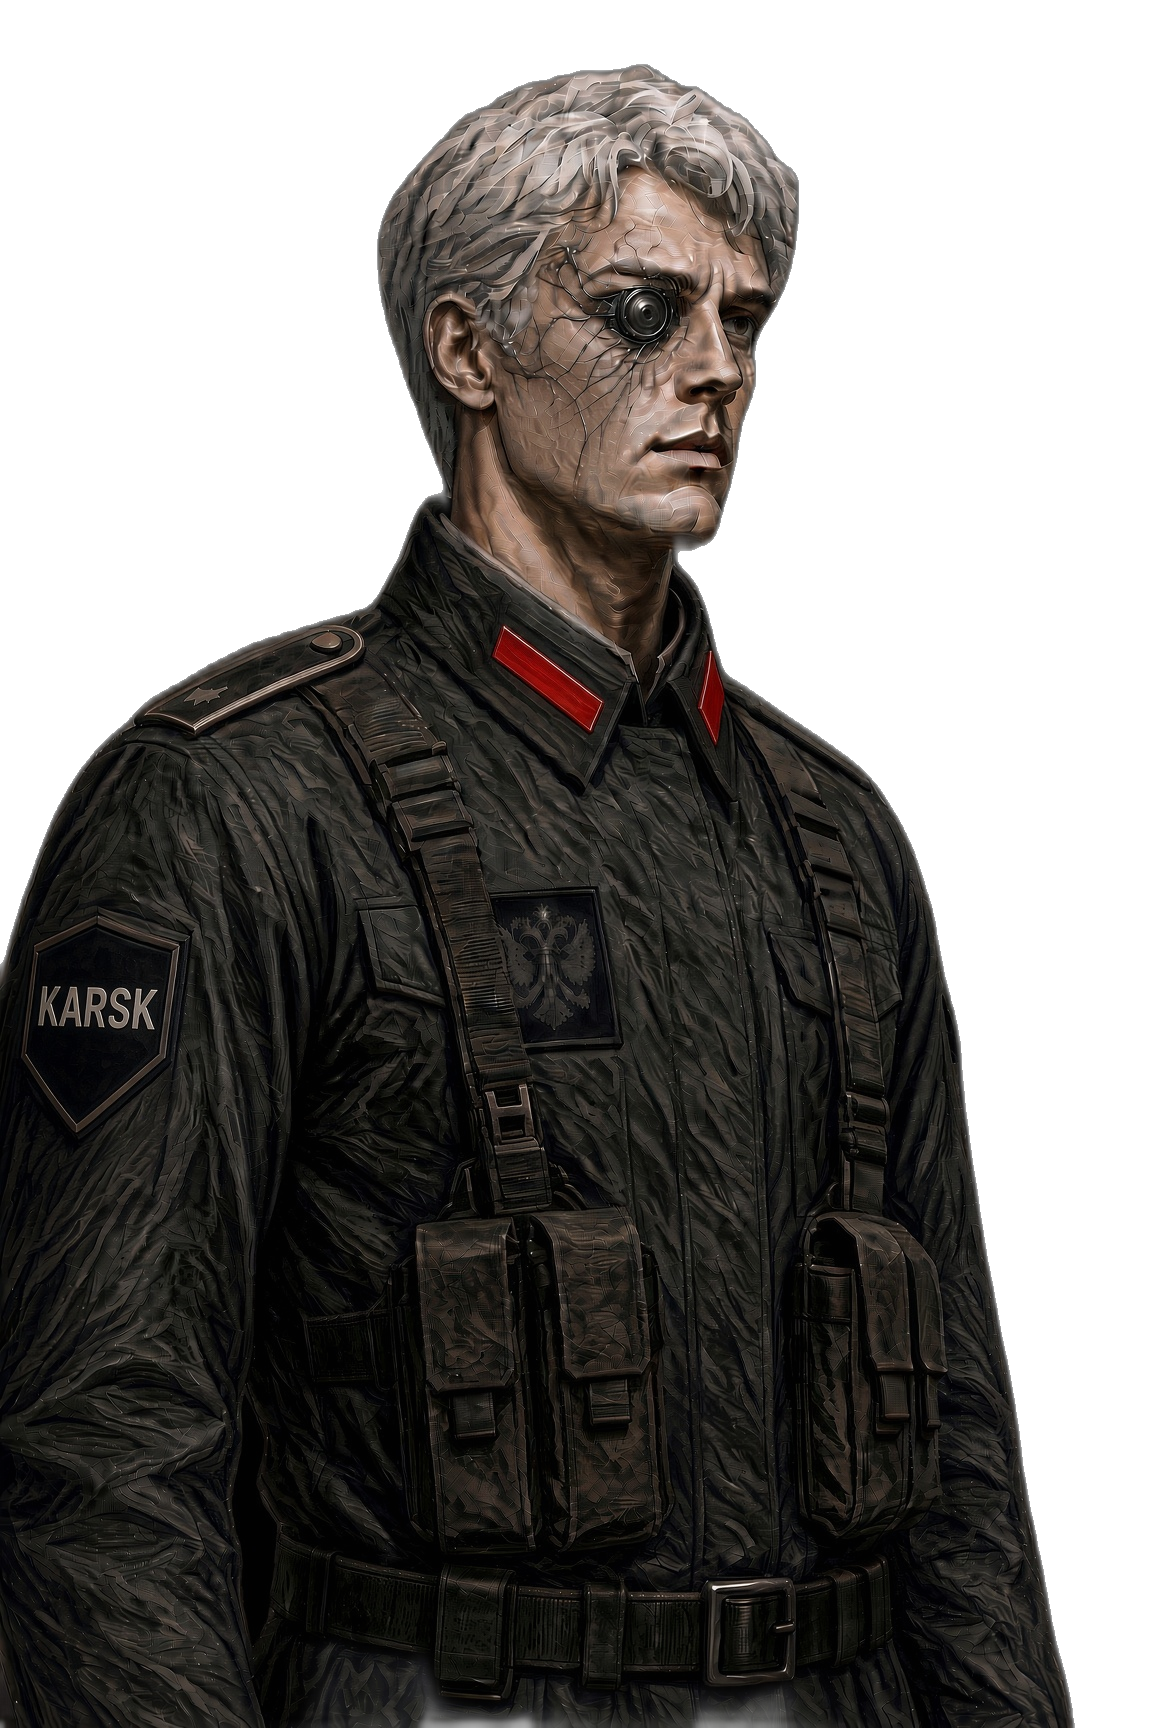
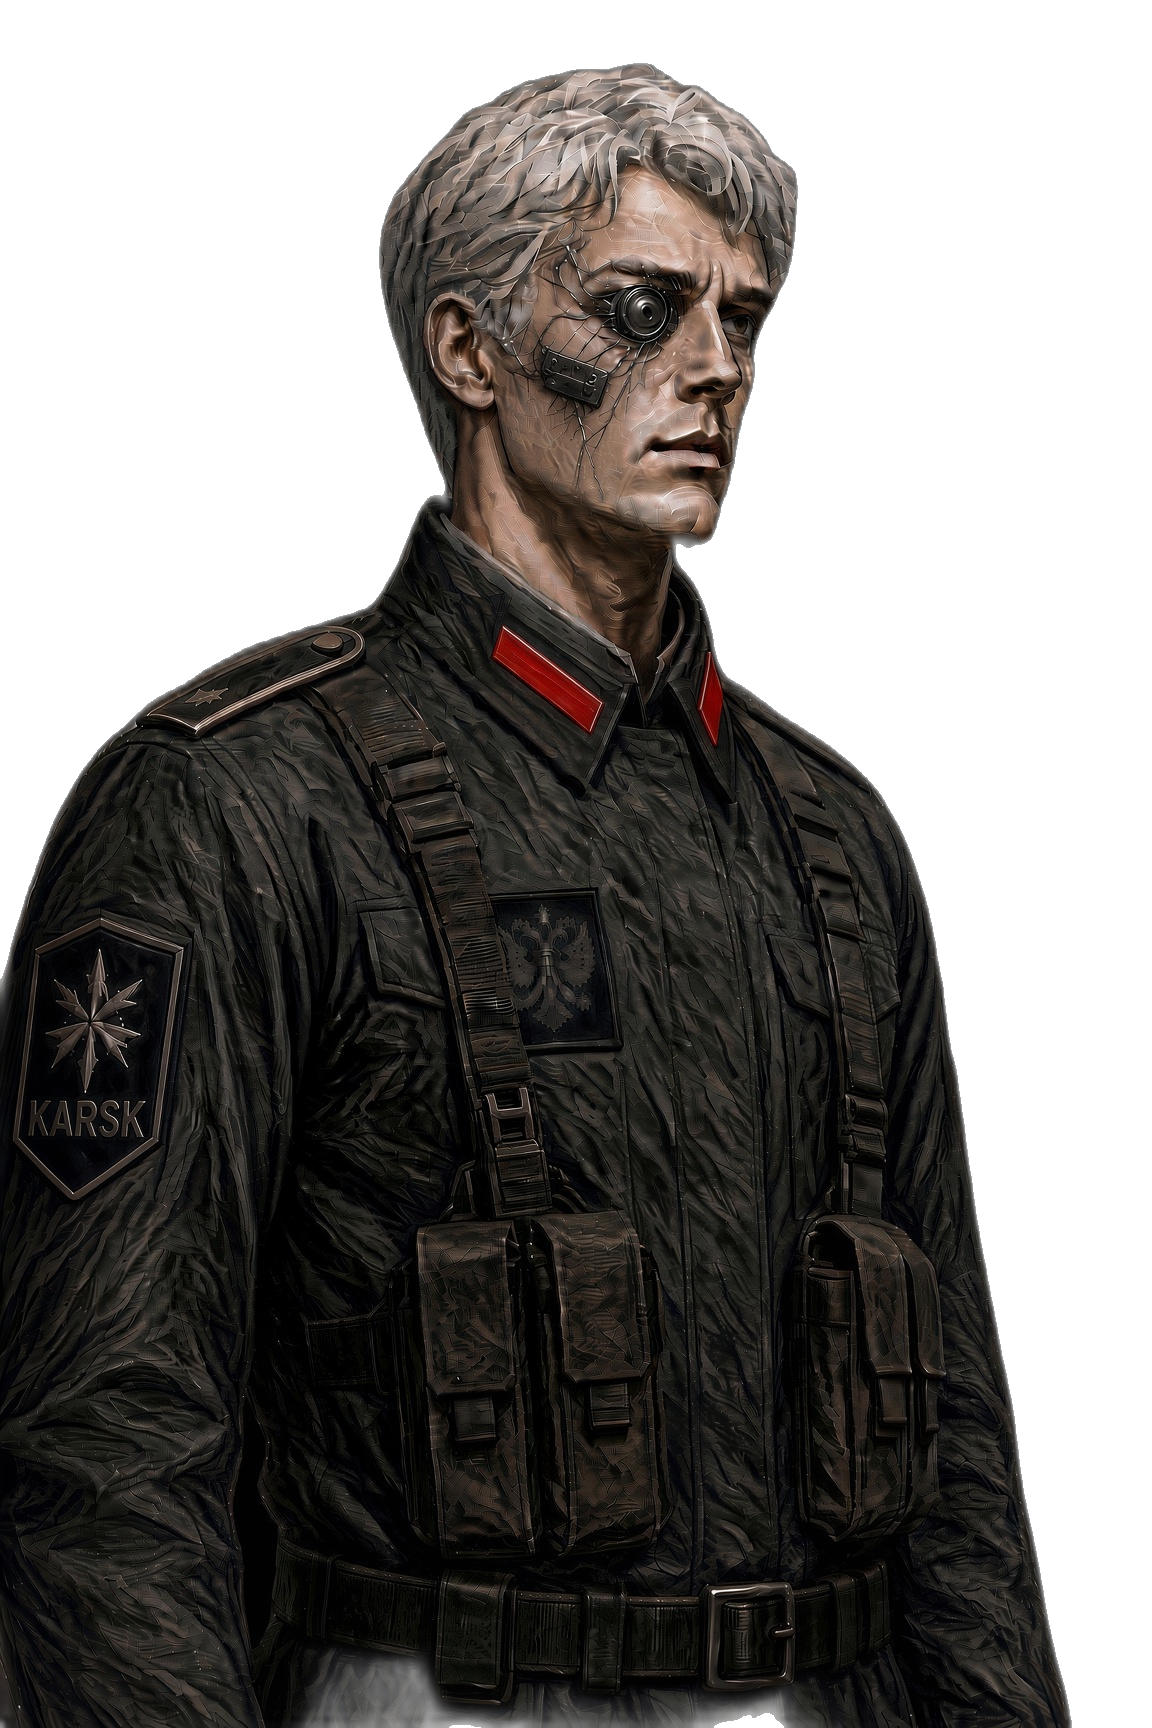
Karsk 1 behält das Wangenstück, leicht erweitert.

diff --git a/Division_Command_0.32c/web/index.html b/Division_Command_0.32c/web/index.html
@@ -614,7 +614,7 @@
   <script src="js/ai/bot.js?v=032d5"></script>
   <script src="js/ui/perf.js?v=030c"></script>
   <script src="js/ui/library.js?v=030n"></script>
-  <script src="js/ui/portraits.js?v=kit13"></script>
+  <script src="js/ui/portraits.js?v=kit14"></script>
   <script src="js/ui/app.js?v=kit2"></script>
   <script src="js/ui/hand-drag.js?v=032d2"></script>
   <script src="js/net.js?v=030c"></script>

diff --git a/Division_Command_0.32c/web/js/ui/portraits.js b/Division_Command_0.32c/web/js/ui/portraits.js
@@ -71,7 +71,7 @@
   };
   var RANK_AGES = 'fhr,lt,olt,hptm,maj,obstlt,obst,bg,genmj,genlt,gen,fm,gfm';
 
-  var VER = '18';
+  var VER = '19';
 
   var FACE_FILE = {
     f01: 'Vael/male/01.png',
